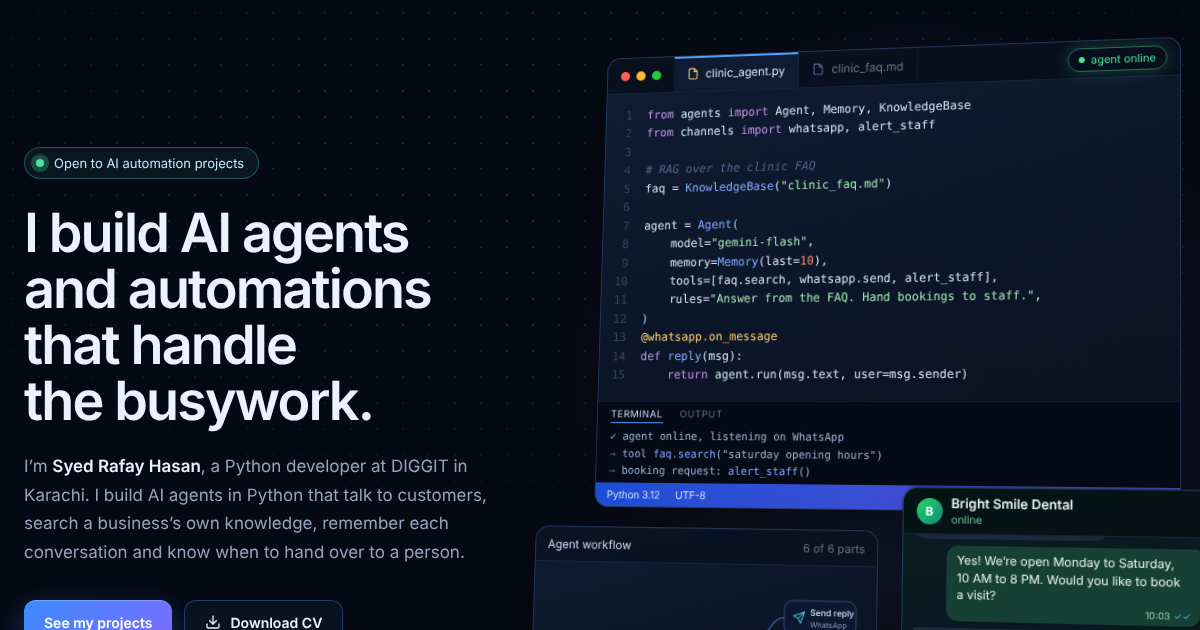
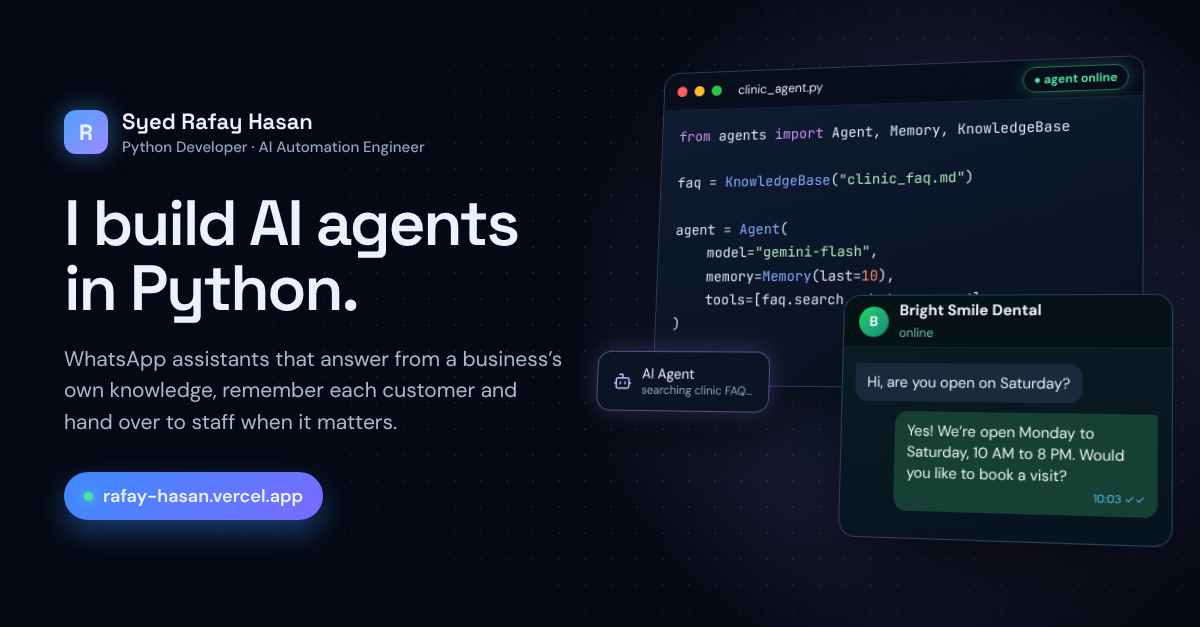
Add files via upload

diff --git a/src/styles.css b/src/styles.css
@@ -186,3 +186,33 @@ h2{font:600 clamp(30px,3.6vw,46px)/1.12 var(--display);letter-spacing:-.025em;te
 }
 .demo-link{color:#fff;border-color:transparent;background:linear-gradient(135deg,#3d8bff,#7a6bff)}
 .demo-link:hover{border-color:transparent}
+/* Cafe chat cover */
+.cafe{width:100%;display:flex;flex-direction:column;background:radial-gradient(ellipse at 80% 0,#2a1d12,#0b1220 70%)}
+.cafe-head{display:flex;align-items:center;gap:10px;padding:9px 12px;font-size:12.5px;border-bottom:1px solid rgba(255,200,140,.12);background:rgba(20,12,6,.45)}
+.cafe-head small{display:block;color:#c9a27a;font-size:10.5px}
+.cafe-logo{display:grid;place-items:center;width:26px;height:26px;border-radius:8px;background:linear-gradient(135deg,#f0a35e,#c26a2b);font-weight:700;font-size:13px;color:#fff}
+.cafe-msgs{flex:1;display:flex;flex-direction:column;justify-content:flex-end;gap:6px;padding:9px 11px}
+.cafe-msgs p{margin:0;max-width:86%;font-size:11.2px;line-height:1.4;padding:6px 9px;border-radius:10px;color:#eef2f8}
+.c-in{align-self:flex-end;background:#2d4f8a;border-top-right-radius:3px}
+.c-in.short{padding:5px 12px}
+.c-out{align-self:flex-start;background:#1c2738;border-top-left-radius:3px}
+.c-saved{align-self:center;font-size:10.5px;color:#4ee2a0;padding:3px 10px;border-radius:999px;border:1px solid rgba(78,226,160,.35);background:rgba(78,226,160,.07)}
+/* Agent pipeline cover */
+.pipe{width:100%;display:flex;flex-direction:column;justify-content:center;gap:22px;padding:18px 20px;background:radial-gradient(ellipse at 50% 0,#14234a,#071022 70%)}
+.pipe-row{display:flex;align-items:flex-start}
+.pipe-step{flex:none;display:flex;flex-direction:column;align-items:center;gap:7px;width:64px}
+.pipe-ic{display:grid;place-items:center;width:38px;height:38px;border-radius:11px;background:#0c1830;border:1px solid rgba(120,170,255,.3)}
+.pipe-ic svg{width:18px;height:18px;fill:none;stroke:#7f93b2;stroke-width:1.8;stroke-linecap:round;stroke-linejoin:round}
+.pipe-step.done .pipe-ic{border-color:rgba(94,240,255,.5)}.pipe-step.done svg{stroke:var(--cyan)}
+.pipe-step.wait .pipe-ic{border-color:var(--violet);box-shadow:0 0 16px rgba(154,140,255,.5);background:#1b1840}.pipe-step.wait svg{stroke:#c9c1ff}
+.pipe-lb{font-size:10px;color:#9fb3cf;text-align:center;line-height:1.2}
+.pipe-ln{flex:1;height:2px;margin-top:18px;background:rgba(120,170,255,.18);border-radius:2px;min-width:6px}
+.pipe-ln.on{background:linear-gradient(90deg,rgba(94,240,255,.7),rgba(78,161,255,.7))}
+.pipe-mail{display:flex;align-items:center;gap:10px;align-self:center;padding:9px 12px;border-radius:12px;background:rgba(12,24,48,.9);border:1px solid rgba(120,170,255,.25);font-size:12px}
+.pipe-mail small{display:block;color:var(--dim);font-size:10.5px}
+.pipe-mail-ic{display:grid;place-items:center;width:28px;height:28px;border-radius:8px;background:rgba(154,140,255,.15);color:#c9c1ff}
+.pipe-btn{font-size:10.5px;font-weight:600;padding:5px 10px;border-radius:8px;border:1px solid var(--line-strong);color:var(--muted);white-space:nowrap}
+.pipe-btn.ok{color:#fff;border-color:transparent;background:linear-gradient(135deg,#3d8bff,#7a6bff)}
+@media (max-width:640px){.pipe{padding:14px 8px;gap:16px}.pipe-step{width:44px;gap:5px}.pipe-ic{width:30px;height:30px}.pipe-lb{font-size:7.4px;letter-spacing:-.01em}.pipe-ln{margin-top:14px;min-width:2px}.pipe-btn:last-child{display:none}.pipe-mail{font-size:11px}}
+.card-in.wide .cover{height:300px}
+@media (max-width:640px){.card-in.wide .cover{height:200px}}

diff --git a/src/covers.jsx b/src/covers.jsx
@@ -71,3 +71,50 @@ export function RatingCover() {
     </div>
   );
 }
+
+export function CafeChatCover() {
+  return (
+    <div className="cafe" aria-label="Example chat: the cafe assistant takes a delivery order, confirms it and saves it to Google Sheets">
+      <div className="cafe-head"><span className="cafe-logo">Z</span><div><b>Zoey’s Cafe</b><small>AI assistant</small></div></div>
+      <div className="cafe-msgs">
+        <p className="c-in">2 Zinger burgers and a Mint Margarita, delivery to DHA please</p>
+        <p className="c-out">2 × Zinger Burger, 1 × Mint Margarita, plus Rs. 200 delivery. Total Rs. 2,500. Shall I confirm?</p>
+        <p className="c-in short">Yes</p>
+        <span className="c-saved">✓ Order saved to Google Sheets</span>
+      </div>
+    </div>
+  );
+}
+
+const STEPS = [
+  ['Topic Scout', 'M21 21l-4.3-4.3M11 19a8 8 0 1 0 0-16 8 8 0 0 0 0 16z'],
+  ['Researcher', 'M2 3h6a4 4 0 0 1 4 4v14a3 3 0 0 0-3-3H2zM22 3h-6a4 4 0 0 0-4 4v14a3 3 0 0 1 3-3h7z'],
+  ['Scriptwriter', 'M12 20h9M16.5 3.5a2.1 2.1 0 0 1 3 3L7 19l-4 1 1-4z'],
+  ['Footage', 'M15 10l5-3v10l-5-3M3 6h12v12H3z'],
+  ['Voice & edit', 'M12 2a3 3 0 0 0-3 3v7a3 3 0 0 0 6 0V5a3 3 0 0 0-3-3zM19 10v2a7 7 0 0 1-14 0v-2M12 19v3'],
+  ['Your approval', 'M22 6l-10 7L2 6M2 4h20v16H2z'],
+  ['YouTube', 'M2.5 17a24 24 0 0 1 0-10 2 2 0 0 1 1.4-1.4 49.6 49.6 0 0 1 16.2 0A2 2 0 0 1 21.5 7a24 24 0 0 1 0 10 2 2 0 0 1-1.4 1.4 49.6 49.6 0 0 1-16.2 0A2 2 0 0 1 2.5 17M10 15l5-3-5-3z'],
+];
+
+export function AgentPipelineCover() {
+  return (
+    <div className="pipe" aria-label="Pipeline of AI agents: topic scout, researcher, scriptwriter, footage, voice and edit, your approval, YouTube">
+      <div className="pipe-row">
+        {STEPS.map(([label, d], i) => (
+          <React.Fragment key={label}>
+            <div className={`pipe-step${i === 5 ? ' wait' : i < 5 ? ' done' : ''}`}>
+              <span className="pipe-ic"><svg viewBox="0 0 24 24"><path d={d} /></svg></span>
+              <span className="pipe-lb">{label}</span>
+            </div>
+            {i < STEPS.length - 1 && <span className={`pipe-ln${i < 5 ? ' on' : ''}`} />}
+          </React.Fragment>
+        ))}
+      </div>
+      <div className="pipe-mail">
+        <span className="pipe-mail-ic">✉</span>
+        <div><b>New Short ready for review</b><small>Script, sources and video attached</small></div>
+        <span className="pipe-btn ok">Approve &amp; Upload</span><span className="pipe-btn">Reject</span>
+      </div>
+    </div>
+  );
+}

diff --git a/src/main.jsx b/src/main.jsx
@@ -21,6 +21,25 @@ const projects = [
   },
   {
     category: 'AI Automation',
+    title: 'AI Cafe Ordering Assistant',
+    description: 'A chat assistant that answers menu and delivery questions from the cafe’s own information, takes orders step by step, confirms them and saves them to Google Sheets. Replies in English or Urdu.',
+    stack: ['n8n', 'Gemini', 'RAG', 'Google Sheets'],
+    link: `${GH}/ai-cafe-ordering-assistant`,
+    image: '/images/cafe-workflow.png',
+    window: 'cafe-assistant'
+  },
+  {
+    category: 'AI Automation',
+    title: 'AI YouTube Video Agent Team',
+    description: 'A team of AI agents that picks a topic, researches it with Google Search, writes the script, finds footage, adds an AI voice and renders the video, then emails me for approval before uploading to YouTube.',
+    stack: ['n8n', 'Gemini', 'Google Search', 'Pexels', 'JSON2Video', 'YouTube API'],
+    link: `${GH}/ai-youtube-video-agents`,
+    image: '/images/youtube-agents.png',
+    window: 'youtube-video-agents',
+    wide: true
+  },
+  {
+    category: 'AI Automation',
     title: 'Customer Rating Automation',
     description: 'Checks bookings every hour, finds finished services and sends each customer a WhatsApp rating request, then marks it in Google Sheets.',
     stack: ['n8n', 'WhatsApp API', 'Google Sheets', 'JavaScript'],
